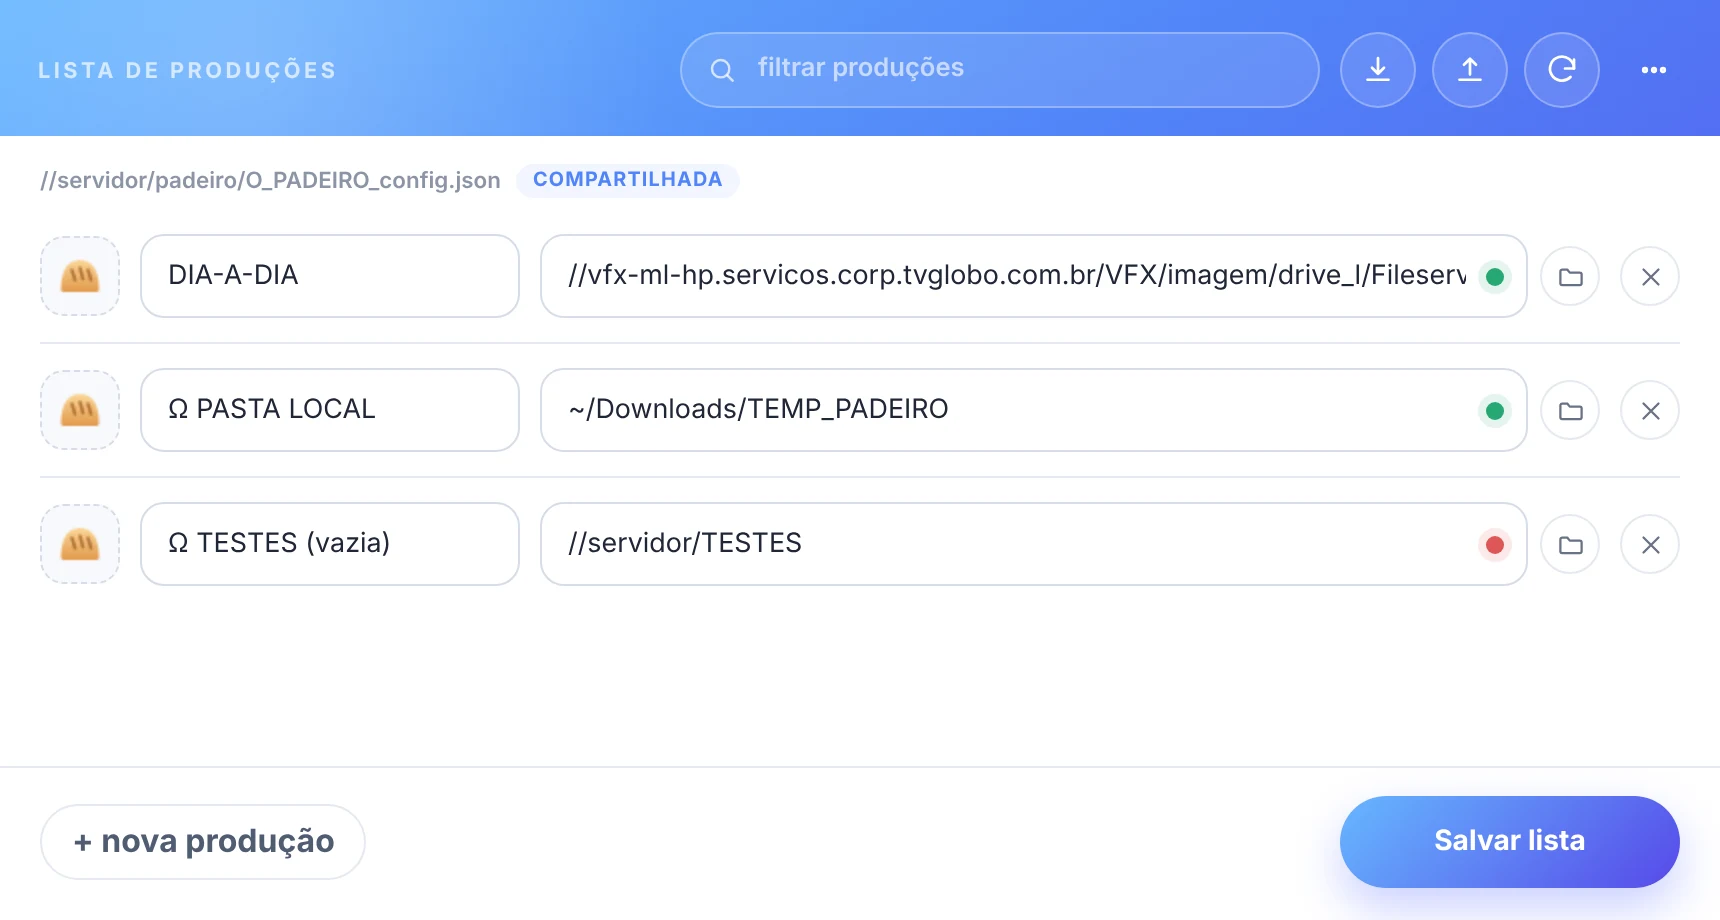
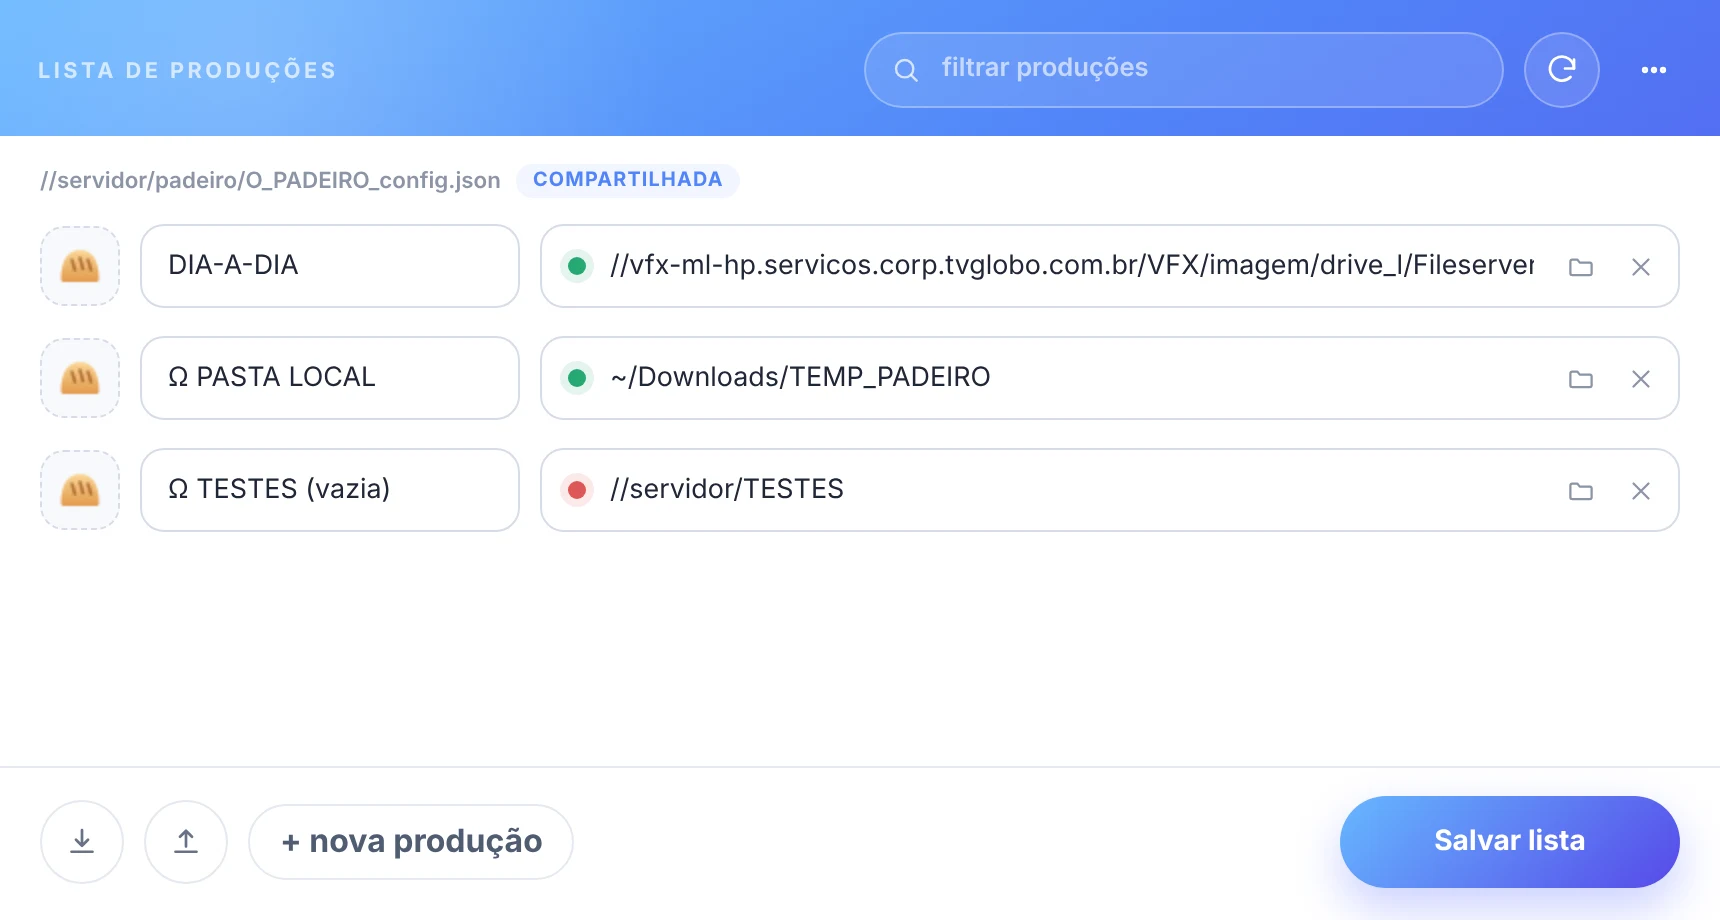
Produções: importar/exportar no rodapé e campo do caminho mais limpo
- importar e exportar vão para o canto inferior esquerdo, antes de
  '+ nova produção', com as setas descendo / subindo no hover
- sem separadores entre as produções
- o ponto de status fica à esquerda do caminho e os botões de pasta e de
  excluir ficam dentro do campo
- imagem e texto da documentação atualizados

Claude-Session: https://claude.ai/code/session_01DrYHfUyMEmqYvcFyKefNe2

diff --git a/extension/client/css/productions.css b/extension/client/css/productions.css
@@ -111,16 +111,11 @@ body.prods-page {
 /* uma produção */
 .prod-row {
   display: grid;
-  grid-template-columns: 40px minmax(120px, 190px) minmax(0, 1fr) auto;
+  grid-template-columns: 40px minmax(120px, 190px) minmax(0, 1fr);
   align-items: center;
   gap: 10px;
-  padding: 12px 0;
-  border-bottom: 1px solid var(--border);
+  padding: 7px 0;
   animation: file-enter 320ms var(--ease-enter) both;
-}
-
-.prod-row:last-child {
-  border-bottom: 0;
 }
 
 .prod-icon {
@@ -158,25 +153,29 @@ body.prods-page {
 
 .prod-path {
   position: relative;
-  display: flex;
   min-width: 0;
-  align-items: center;
-  gap: 6px;
 }
 
+/* status à esquerda e botões à direita, dentro do campo */
 .prod-path .cfg-input {
-  flex: 1;
-  padding-right: 30px;
+  width: 100%;
+  padding-right: 72px;
+  padding-left: 34px;
 }
 
 .prod-dot {
   position: absolute;
+  top: 50%;
+  left: 14px;
   width: 9px;
   height: 9px;
-  right: 48px;
   border-radius: 50%;
   background: var(--border-strong);
   pointer-events: none;
+  transform: translateY(-50%);
+  transition:
+    background-color 200ms ease,
+    box-shadow 200ms ease;
 }
 
 .prod-dot.is-ok {
@@ -187,6 +186,80 @@ body.prods-page {
 .prod-dot.is-missing {
   background: #dd5656;
   box-shadow: 0 0 0 4px rgb(221 86 86 / 12%);
+}
+
+.prod-path-actions {
+  position: absolute;
+  top: 50%;
+  right: 6px;
+  display: flex;
+  gap: 2px;
+  transform: translateY(-50%);
+}
+
+.prod-path-actions .mini-button {
+  width: 28px;
+  height: 28px;
+  border-color: transparent;
+  background: transparent;
+  color: var(--text-tertiary);
+}
+
+.prod-path-actions .mini-button:hover:not(:disabled) {
+  border-color: transparent;
+  transform: none;
+}
+
+/* importar e exportar (rodapé): a seta desce / sobe no hover e volta ao sair */
+.io-button {
+  display: grid;
+  width: 42px;
+  height: 42px;
+  flex: 0 0 auto;
+  place-items: center;
+  border: 1px solid var(--border);
+  border-radius: 50%;
+  background: white;
+  color: var(--text-secondary);
+  cursor: pointer;
+  transition:
+    background-color 180ms ease,
+    border-color 180ms ease,
+    color 180ms ease;
+}
+
+.io-button:hover:not(:disabled) {
+  border-color: var(--blue-200);
+  background: var(--blue-50);
+  color: var(--blue-500);
+}
+
+.io-button:focus-visible {
+  outline: 3px solid rgb(79 130 255 / 22%);
+  outline-offset: 2px;
+}
+
+.io-button svg {
+  width: 18px;
+  height: 18px;
+  overflow: visible;
+  fill: none;
+  stroke: currentcolor;
+  stroke-linecap: round;
+  stroke-linejoin: round;
+  stroke-width: 1.8;
+}
+
+.io-arrow {
+  transition: transform 280ms var(--ease-soft);
+}
+
+#btn-import:hover .io-arrow {
+  transform: translateY(2.5px);
+}
+
+#btn-export:hover .io-arrow {
+  transform: translateY(-2.5px);
 }
 
 .prod-row.has-error .cfg-input {
@@ -266,8 +339,10 @@ body.prods-page {
 }
 
 @media (max-width: 640px) {
+  /* sem separadores: um respiro maior entre as produções empilhadas */
   .prod-row {
-    grid-template-columns: 40px minmax(0, 1fr) auto;
+    grid-template-columns: 40px minmax(0, 1fr);
+    padding: 8px 0 14px;
   }
 
   .prod-path {
@@ -275,14 +350,6 @@ body.prods-page {
     grid-row: 2;
   }
 
-  .prod-row>.mini-button {
-    grid-column: 3;
-    grid-row: 1;
-  }
-
-  .prod-dot {
-    right: 48px;
-  }
 }
 
 @media (max-width: 420px) {

diff --git a/extension/client/productions.html b/extension/client/productions.html
@@ -21,12 +21,6 @@
 				<button type="button" class="picker-clear" id="filter-clear" aria-label="Limpar filtro" hidden>×</button>
 			</div>
 			<div class="prods-tools">
-				<button type="button" class="icon-button" id="btn-import" title="Importar uma lista de produções" aria-label="Importar uma lista de produções">
-					<svg viewBox="0 0 24 24"><path d="M12 4v10M8 10.500l4 4 4-4M5 18.500h14" /></svg>
-				</button>
-				<button type="button" class="icon-button" id="btn-export" title="Exportar a lista completa" aria-label="Exportar a lista completa">
-					<svg viewBox="0 0 24 24"><path d="M12 15V5M8 8.500l4-4 4 4M5 18.500h14" /></svg>
-				</button>
 				<button type="button" class="icon-button" id="btn-reload" title="Recarregar a lista do arquivo" aria-label="Recarregar a lista do arquivo">
 					<svg viewBox="0 0 24 24" class="anim-refresh"><path d="M20 11a8 8 0 1 0-2.3 5.7" /><path d="M20 5v6h-6" /></svg>
 				</button>
@@ -52,6 +46,12 @@
 			</div>
 
 			<div class="action-bar is-anchored prods-bar">
+				<button type="button" class="io-button" id="btn-import" title="Importar uma lista de produções" aria-label="Importar uma lista de produções">
+					<svg viewBox="0 0 24 24"><path class="io-arrow" d="M12 4v10M8 10.500l4 4 4-4" /><path d="M5 18.500h14" /></svg>
+				</button>
+				<button type="button" class="io-button" id="btn-export" title="Exportar a lista completa" aria-label="Exportar a lista completa">
+					<svg viewBox="0 0 24 24"><path class="io-arrow" d="M12 15V5M8 8.500l4-4 4 4" /><path d="M5 18.500h14" /></svg>
+				</button>
 				<button type="button" class="button button-secondary" id="btn-new">+ nova produção</button>
 				<span class="prods-dirty" id="dirty" hidden>alterações não salvas</span>
 				<button type="button" class="button button-primary" id="btn-save">Salvar lista</button>

diff --git a/extension/client/js/productions.js b/extension/client/js/productions.js
@@ -306,14 +306,18 @@ Salvar confere se o arquivo mudou desde a leitura (outra pessoa pode ter editado
 			updateDirty();
 		});
 
-		pathWrap.appendChild(path);
+		// o campo do caminho leva o status (à esquerda) e os botões de pasta e de excluir (à direita)
+		var actions = el('div', 'prod-path-actions');
+
+		actions.appendChild(pick);
+		actions.appendChild(remove);
 		pathWrap.appendChild(dot);
-		pathWrap.appendChild(pick);
+		pathWrap.appendChild(path);
+		pathWrap.appendChild(actions);
 
 		box.appendChild(iconBtn);
 		box.appendChild(name);
 		box.appendChild(pathWrap);
-		box.appendChild(remove);
 
 		row.nodes = { box: box, dot: dot, name: name, path: path };
 

diff --git a/docs/producoes.md b/docs/producoes.md
@@ -13,11 +13,11 @@ a lista de produções é **uma só para a equipe**: o arquivo `O_PADEIRO_config
 > ![editor de produções](images/producoes.webp)
 
 1. clique em '*+ nova produção*'.
-2. escolha um ícone (opcional), digite o nome e escolha a pasta de templates (o ponto ao lado do caminho fica verde quando a pasta existe).
+2. escolha um ícone (opcional), digite o nome e escolha a pasta de templates pelo ícone de pasta dentro do campo (o ponto à esquerda do caminho fica verde quando a pasta existe). o **×** no mesmo campo exclui a produção.
 3. clique em '*Salvar lista*' (ou `Ctrl/Cmd+S`).
 
 - **filtrar** → mostra só as produções com o termo no nome ou no caminho.
-- **importar / exportar** → lê ou grava uma lista completa, com os ícones.
+- **importar / exportar** (os botões com setas, no canto inferior esquerdo) → lê ou grava uma lista completa, com os ícones.
 - **recarregar** → lê a lista de novo, descartando o que não foi salvo.
 - **⋯** → ajuda (esta página) e recarregar o painel.
 
